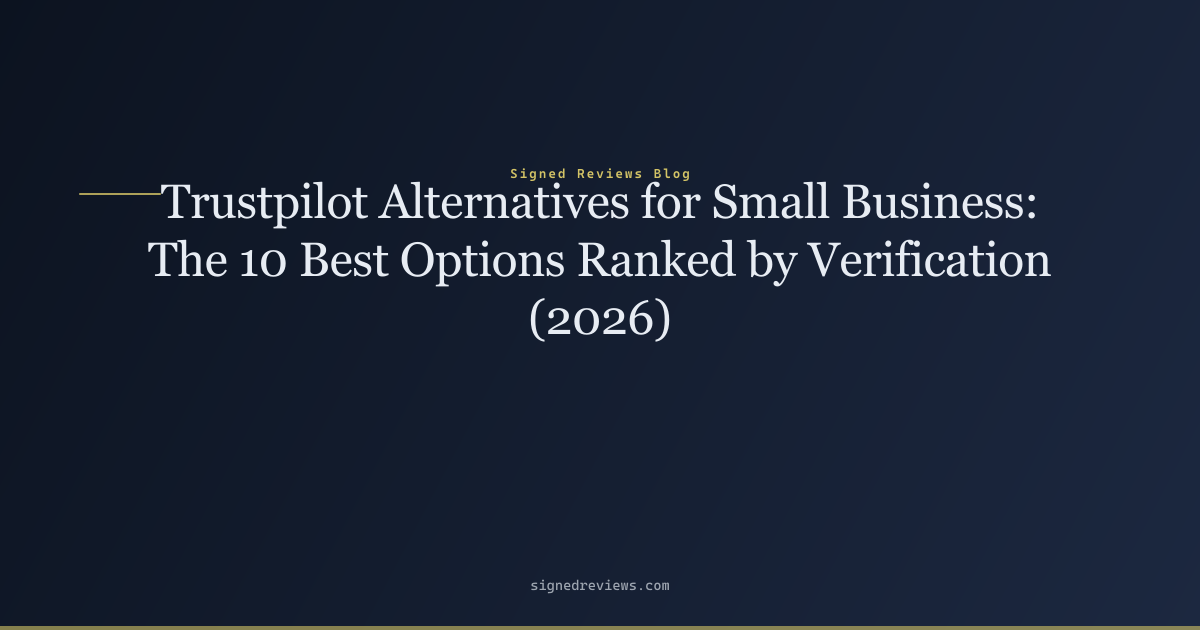
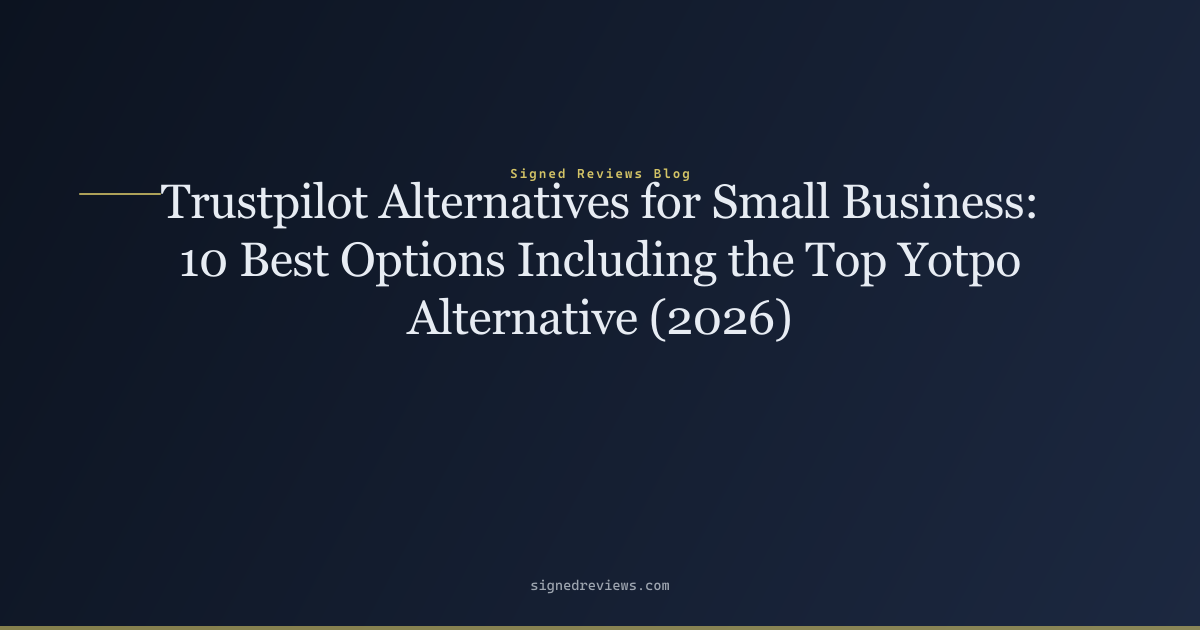
SEO: target 'yotpo alternative' on trustpilot-alternatives post

Changed region(s): [[0.1233, 0.3619, 0.8942, 0.5429]]

diff --git a/blog/trustpilot-alternatives-for-small-business/index.html b/blog/trustpilot-alternatives-for-small-business/index.html
@@ -3,21 +3,21 @@
 <head>
   <meta charset="UTF-8">
   <meta name="viewport" content="width=device-width, initial-scale=1.0">
-  <title>Trustpilot Alternatives for Small Business: The 10 Best Options Ranked by Verification (2026) — Signed Reviews Blog</title>
-  <meta name="description" content="This guide ranks the best trustpilot alternatives for small business by how each platform verifies reviews — from email-only to processor-attested. Find the rig">
+  <title>Trustpilot Alternatives for Small Business: 10 Best Options Including the Top Yotpo Alternative (2026) — Signed Reviews Blog</title>
+  <meta name="description" content="Looking for a yotpo alternative? This guide ranks the 10 best trustpilot alternatives for small business by verification strength — including the top yotpo alte">
   <link rel="canonical" href="https://signedreviews.com/blog/trustpilot-alternatives-for-small-business/">
   <meta name="robots" content="index, follow">
   <meta name="theme-color" content="#0c1320">
 
   <meta property="og:type" content="website">
-  <meta property="og:title" content="Trustpilot Alternatives for Small Business: The 10 Best Options Ranked by Verification (2026) — Signed Reviews Blog">
-  <meta property="og:description" content="This guide ranks the best trustpilot alternatives for small business by how each platform verifies reviews — from email-only to processor-attested. Find the rig">
+  <meta property="og:title" content="Trustpilot Alternatives for Small Business: 10 Best Options Including the Top Yotpo Alternative (2026) — Signed Reviews Blog">
+  <meta property="og:description" content="Looking for a yotpo alternative? This guide ranks the 10 best trustpilot alternatives for small business by verification strength — including the top yotpo alte">
   <meta property="og:url" content="https://signedreviews.com/blog/trustpilot-alternatives-for-small-business/">
   <meta property="og:site_name" content="Signed Reviews">
   <meta property="og:image" content="https://signedreviews.com/images/SignedReviews_full_logo.png">
   <meta name="twitter:card" content="summary_large_image">
-  <meta name="twitter:title" content="Trustpilot Alternatives for Small Business: The 10 Best Options Ranked by Verification (2026) — Signed Reviews Blog">
-  <meta name="twitter:description" content="This guide ranks the best trustpilot alternatives for small business by how each platform verifies reviews — from email-only to processor-attested. Find the rig">
+  <meta name="twitter:title" content="Trustpilot Alternatives for Small Business: 10 Best Options Including the Top Yotpo Alternative (2026) — Signed Reviews Blog">
+  <meta name="twitter:description" content="Looking for a yotpo alternative? This guide ranks the 10 best trustpilot alternatives for small business by verification strength — including the top yotpo alte">
 
   <link rel="icon" href="/SignedReviews/favicon.svg" type="image/svg+xml">
   <link rel="icon" type="image/png" sizes="32x32" href="/SignedReviews/images/SignedReviews_logo_only.png">
@@ -483,7 +483,7 @@ main { padding: 0; }
     })();
   </script>
 
-  <script type="application/ld+json">{"@context":"https://schema.org","@type":"BlogPosting","headline":"Trustpilot Alternatives for Small Business: The 10 Best Options Ranked by Verification (2026)","description":"This guide ranks the best trustpilot alternatives for small business by how each platform verifies reviews — from email-only to processor-attested. Find the rig","datePublished":"2026-07-24 ·","author":{"@type":"Organization","name":"Signed Reviews"},"publisher":{"@type":"Organization","name":"Signed Reviews","logo":{"@type":"ImageObject","url":"https://signedreviews.com/images/SignedReviews_logo_only.png"}}}</script>
+  <script type="application/ld+json">{"@context":"https://schema.org","@type":"BlogPosting","headline":"Trustpilot Alternatives for Small Business: 10 Best Options Including the Top Yotpo Alternative (2026)","description":"Looking for a yotpo alternative? This guide ranks the 10 best trustpilot alternatives for small business by verification strength — including the top yotpo alte","datePublished":"2026-07-24 ·","author":{"@type":"Organization","name":"Signed Reviews"},"publisher":{"@type":"Organization","name":"Signed Reviews","logo":{"@type":"ImageObject","url":"https://signedreviews.com/images/SignedReviews_logo_only.png"}}}</script>
 </head>
 <body>
   <a class="skip-link" href="#main">Skip to main content</a>
@@ -524,15 +524,19 @@ main { padding: 0; }
     <section class="page-hero">
       <div class="page-hero-inner">
         <span class="eyebrow">Blog</span>
-        <h1>Trustpilot Alternatives for Small Business: The 10 Best Options Ranked by Verification (2026)</h1>
-        <p>This guide ranks the best trustpilot alternatives for small business by how each platform verifies reviews — from email-only to processor-attested. Find the rig</p>
+        <h1>Trustpilot Alternatives for Small Business: 10 Best Options Including the Top Yotpo Alternative (2026)</h1>
+        <p>Looking for a yotpo alternative? This guide ranks the 10 best trustpilot alternatives for small business by verification strength — including the top yotpo alte</p>
       </div>
     </section>
     <div class="prose-wrap">
       <article class="prose" style="max-width: var(--max-prose)">
       <p class="post-meta" style="color:var(--muted);font-size:.9rem;margin-bottom:1.5rem;">2026-07-24 ·</p>
       <p>Trustpilot is the largest review platform on the internet — 361 million reviews, roughly 55% market share, and a brand consumers recognize. But it&#39;s not always the best fit, and for many businesses it&#39;s actively the wrong one. Anyone can post on Trustpilot without buying anything. The &quot;Verified&quot; badge most people associate with Trustpilot means the business invited the reviewer by email — not that a payment was independently confirmed. And pricing starts at $299/month for the tier most businesses actually need.</p>
-<p>This guide ranks the best trustpilot alternatives for small business by how each platform verifies reviews — from email-only to processor-attested. Find the right fit for your business.</p>
+<p>Looking for a yotpo alternative? This guide ranks the 10 best trustpilot alternatives for small business by verification strength — including the top yotpo alternative for Stripe businesses.</p>
+<hr>
+<h2 id="why-a-yotpo-alternative-makes-sense-for-small-business"><a class="anchor" href="#why-a-yotpo-alternative-makes-sense-for-small-business" aria-label="Permalink to Why a Yotpo Alternative Makes Sense for Small Business">#</a> Why a Yotpo Alternative Makes Sense for Small Business</h2>
+<p>Yotpo dominates the enterprise DTC space — but for small businesses, it&#39;s often the wrong fit. Pricing scales aggressively with review volume, the feature set is built for marketing teams with dedicated headcount, and the verification model is still Level 3 (merchant-supplied order data). If you&#39;re a small team processing payments through Stripe, the best yotpo alternative is one that verifies against your payment processor&#39;s independent records — not against your own store data.</p>
+<p>The key question when evaluating any yotpo alternative is the same one that drives this entire ranking: when a review says &quot;Verified,&quot; who did the verifying? Yotpo&#39;s answer is &quot;the merchant&#39;s Shopify order records.&quot; A Stripe-native yotpo alternative answers &quot;the payment processor.&quot; That&#39;s the difference between Level 3 and Level 4 — and for businesses that want reviews they can&#39;t fake even if they tried, it&#39;s the difference that matters. See <a href="/how-it-works/">how Signed Reviews works</a> for the full verification flow.</p>
 <hr>
 <h2 id="how-we-score-the-verification-spectrum"><a class="anchor" href="#how-we-score-the-verification-spectrum" aria-label="Permalink to How we score: the verification spectrum">#</a> How we score: the verification spectrum</h2>
 <p>Every review platform sits somewhere on this spectrum. The column on the right is where verification is structurally impossible to fake — and almost no one operates there.</p>
@@ -604,7 +608,7 @@ main { padding: 0; }
 | Stripe-native | ❌ No |
 | Review ownership | ✅ Yes |
 | Best for | Enterprise DTC brands with budget |</p>
-<p>Yotpo is the enterprise default for direct-to-consumer brands. Its &quot;Verified Buyer&quot; badge means the reviewer clicked through a Mail-After-Purchase email and Yotpo matched the email to an order record. The verification is solid — but it&#39;s the merchant&#39;s MAP flow and order data doing the attesting, not an independent processor. At enterprise scale, Yotpo gets expensive quickly.</p>
+<p>Yotpo is the enterprise default for direct-to-consumer brands — but for small businesses, it&#39;s the most common platform people seek a yotpo alternative from. Its &quot;Verified Buyer&quot; badge means the reviewer clicked through a Mail-After-Purchase email and Yotpo matched the email to an order record. The verification is solid — but it&#39;s the merchant&#39;s MAP flow and order data doing the attesting, not an independent processor. At enterprise scale, Yotpo gets expensive quickly, which is why small teams often search for a yotpo alternative with comparable verification at a fraction of the cost.</p>
 <p><strong>Why it&#39;s #3:</strong> Best-in-class for enterprise DTC who need loyalty, SMS, and subscription integrations alongside reviews. Overkill and overpriced for small-to-mid businesses.</p>
 <p>→ <a href="/vs/yotpo/">Signed Reviews vs Yotpo</a></p>
 <h3 id="4-feefo-closest-positioning-competitor"><a class="anchor" href="#4-feefo-closest-positioning-competitor" aria-label="Permalink to 4. Feefo — ★ Closest positioning competitor">#</a> 4. Feefo — ★ Closest positioning competitor</h3>
@@ -832,7 +836,7 @@ main { padding: 0; }
 <p>The smartest approach for most Stripe businesses: <strong>use Signed Reviews as your verified-review engine</strong> (Level 4, every review backed by a confirmed Stripe charge) and maintain a Trustpilot presence selectively. Your verified reviews live on your own site, your public profile page, and Google via structured data. Trustpilot becomes a distribution channel, not your review strategy&#39;s foundation.</p>
 <hr>
 <h2 id="bottom-line"><a class="anchor" href="#bottom-line" aria-label="Permalink to Bottom line">#</a> Bottom line</h2>
-<p>Most &quot;trustpilot alternatives for small business&quot; lists are really just &quot;review platforms ranked by monthly price.&quot; The more important question is: <strong>when a review says &quot;Verified,&quot; verified by whom?</strong></p>
+<p>Most &quot;trustpilot alternatives for small business&quot; lists are really just &quot;review platforms ranked by monthly price.&quot; The more important question is: <strong>when a review says &quot;Verified,&quot; verified by whom?</strong> Whether you&#39;re looking for a trustpilot alternative, a yotpo alternative, or both, the verification level is what separates platforms that genuinely prove authenticity from platforms that just claim it.</p>
 <p>If the answer is &quot;the merchant,&quot; you&#39;re at Level 3 — and so is every major platform except one. If you process payments through Stripe, you can operate at Level 4 — processor-attested verification — and offer your customers something structurally more credible than anything a merchant-supplied platform can provide.</p>
 <p><strong>Further reading:</strong></p>
 <ul>

diff --git a/blog/index.html b/blog/index.html
@@ -541,9 +541,9 @@ main { padding: 0; }
       <p style="margin:0;color:var(--text);font-size:.95rem;">- You can't buy individual features à la carte. Features are bundled into tiers. If you want one feature from a higher tier, you pay for the whole tier.</p>
     </div>
     <div style="margin-bottom:1.5rem;padding-bottom:1.5rem;border-bottom:1px solid var(--border);">
-      <h2 style="margin:0 0 .3rem;font-size:1.25rem;"><a href="/SignedReviews/blog/trustpilot-alternatives-for-small-business/" style="text-decoration:none;">Trustpilot Alternatives for Small Business: The 10 Best Options Ranked by Verification (2026)</a></h2>
+      <h2 style="margin:0 0 .3rem;font-size:1.25rem;"><a href="/SignedReviews/blog/trustpilot-alternatives-for-small-business/" style="text-decoration:none;">Trustpilot Alternatives for Small Business: 10 Best Options Including the Top Yotpo Alternative (2026)</a></h2>
       <p class="post-meta" style="color:var(--muted);font-size:.85rem;margin:0 0 .4rem;">2026-07-24 ·</p>
-      <p style="margin:0;color:var(--text);font-size:.95rem;">This guide ranks the best trustpilot alternatives for small business by how each platform verifies reviews — from email-only to processor-attested. Find the rig</p>
+      <p style="margin:0;color:var(--text);font-size:.95rem;">Looking for a yotpo alternative? This guide ranks the 10 best trustpilot alternatives for small business by verification strength — including the top yotpo alte</p>
     </div>
     <div style="margin-bottom:1.5rem;padding-bottom:1.5rem;border-bottom:1px solid var(--border);">
       <h2 style="margin:0 0 .3rem;font-size:1.25rem;"><a href="/SignedReviews/blog/trustpilot-alternatives-for-saas/" style="text-decoration:none;">Trustpilot Alternatives for SaaS: Why Most Review Platforms Don't Fit Subscription Businesses</a></h2>

diff --git a/files/blog/trustpilot-alternatives-for-small-business.md b/files/blog/trustpilot-alternatives-for-small-business.md
@@ -1,4 +1,4 @@
-# Trustpilot Alternatives for Small Business: The 10 Best Options Ranked by Verification (2026)
+# Trustpilot Alternatives for Small Business: 10 Best Options Including the Top Yotpo Alternative (2026)
 
 **Published:** 2026-07-24 · **Author:** Signed Reviews Team · **Description:** The 10 best Trustpilot alternatives ranked by how they verify reviews — from none to processor-attested. Covers SaaS, e-commerce, local business, and enterprise. Includes pricing, verification comparison, and recommendations by business type.
 
@@ -6,7 +6,15 @@
 
 Trustpilot is the largest review platform on the internet — 361 million reviews, roughly 55% market share, and a brand consumers recognize. But it's not always the best fit, and for many businesses it's actively the wrong one. Anyone can post on Trustpilot without buying anything. The "Verified" badge most people associate with Trustpilot means the business invited the reviewer by email — not that a payment was independently confirmed. And pricing starts at $299/month for the tier most businesses actually need.
 
-This guide ranks the best trustpilot alternatives for small business by how each platform verifies reviews — from email-only to processor-attested. Find the right fit for your business.
+Looking for a yotpo alternative? This guide ranks the 10 best trustpilot alternatives for small business by verification strength — including the top yotpo alternative for Stripe businesses.
+
+---
+
+## Why a Yotpo Alternative Makes Sense for Small Business
+
+Yotpo dominates the enterprise DTC space — but for small businesses, it's often the wrong fit. Pricing scales aggressively with review volume, the feature set is built for marketing teams with dedicated headcount, and the verification model is still Level 3 (merchant-supplied order data). If you're a small team processing payments through Stripe, the best yotpo alternative is one that verifies against your payment processor's independent records — not against your own store data.
+
+The key question when evaluating any yotpo alternative is the same one that drives this entire ranking: when a review says "Verified," who did the verifying? Yotpo's answer is "the merchant's Shopify order records." A Stripe-native yotpo alternative answers "the payment processor." That's the difference between Level 3 and Level 4 — and for businesses that want reviews they can't fake even if they tried, it's the difference that matters. See [how Signed Reviews works](/how-it-works/) for the full verification flow.
 
 ---
 
@@ -66,7 +74,7 @@ Judge.me is the most-installed review app on Shopify (127 million reviews collec
 | Review ownership | ✅ Yes |
 | Best for | Enterprise DTC brands with budget |
 
-Yotpo is the enterprise default for direct-to-consumer brands. Its "Verified Buyer" badge means the reviewer clicked through a Mail-After-Purchase email and Yotpo matched the email to an order record. The verification is solid — but it's the merchant's MAP flow and order data doing the attesting, not an independent processor. At enterprise scale, Yotpo gets expensive quickly.
+Yotpo is the enterprise default for direct-to-consumer brands — but for small businesses, it's the most common platform people seek a yotpo alternative from. Its "Verified Buyer" badge means the reviewer clicked through a Mail-After-Purchase email and Yotpo matched the email to an order record. The verification is solid — but it's the merchant's MAP flow and order data doing the attesting, not an independent processor. At enterprise scale, Yotpo gets expensive quickly, which is why small teams often search for a yotpo alternative with comparable verification at a fraction of the cost.
 
 **Why it's #3:** Best-in-class for enterprise DTC who need loyalty, SMS, and subscription integrations alongside reviews. Overkill and overpriced for small-to-mid businesses.
 
@@ -214,7 +222,7 @@ The smartest approach for most Stripe businesses: **use Signed Reviews as your v
 
 ## Bottom line
 
-Most "trustpilot alternatives for small business" lists are really just "review platforms ranked by monthly price." The more important question is: **when a review says "Verified," verified by whom?**
+Most "trustpilot alternatives for small business" lists are really just "review platforms ranked by monthly price." The more important question is: **when a review says "Verified," verified by whom?** Whether you're looking for a trustpilot alternative, a yotpo alternative, or both, the verification level is what separates platforms that genuinely prove authenticity from platforms that just claim it.
 
 If the answer is "the merchant," you're at Level 3 — and so is every major platform except one. If you process payments through Stripe, you can operate at Level 4 — processor-attested verification — and offer your customers something structurally more credible than anything a merchant-supplied platform can provide.
 
